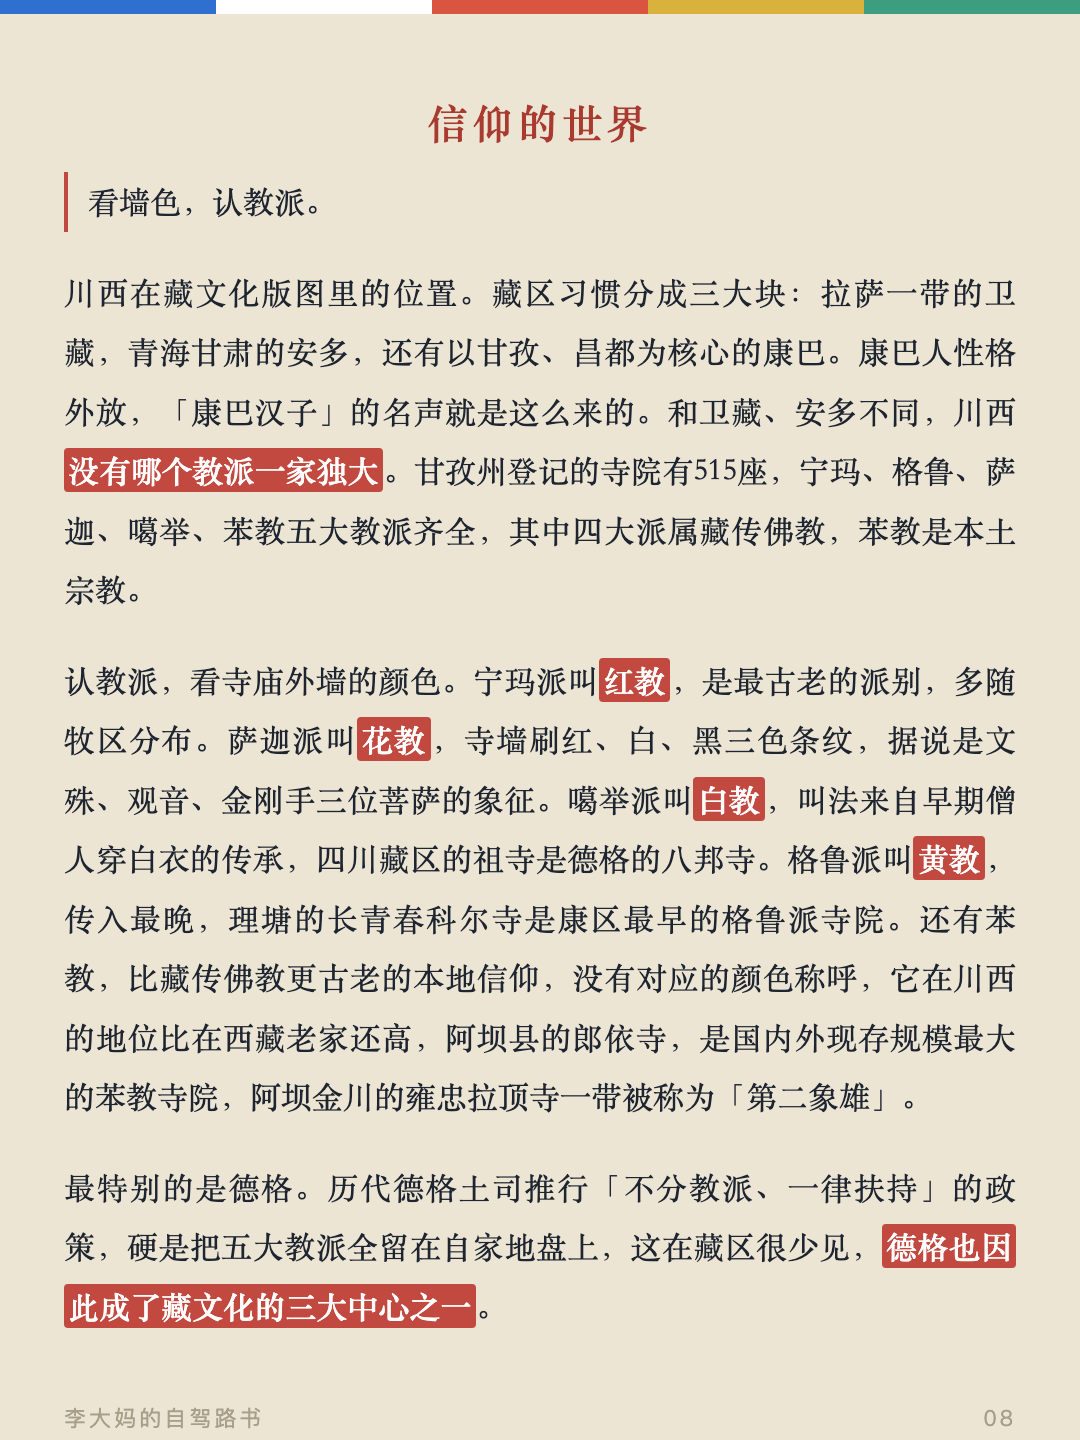
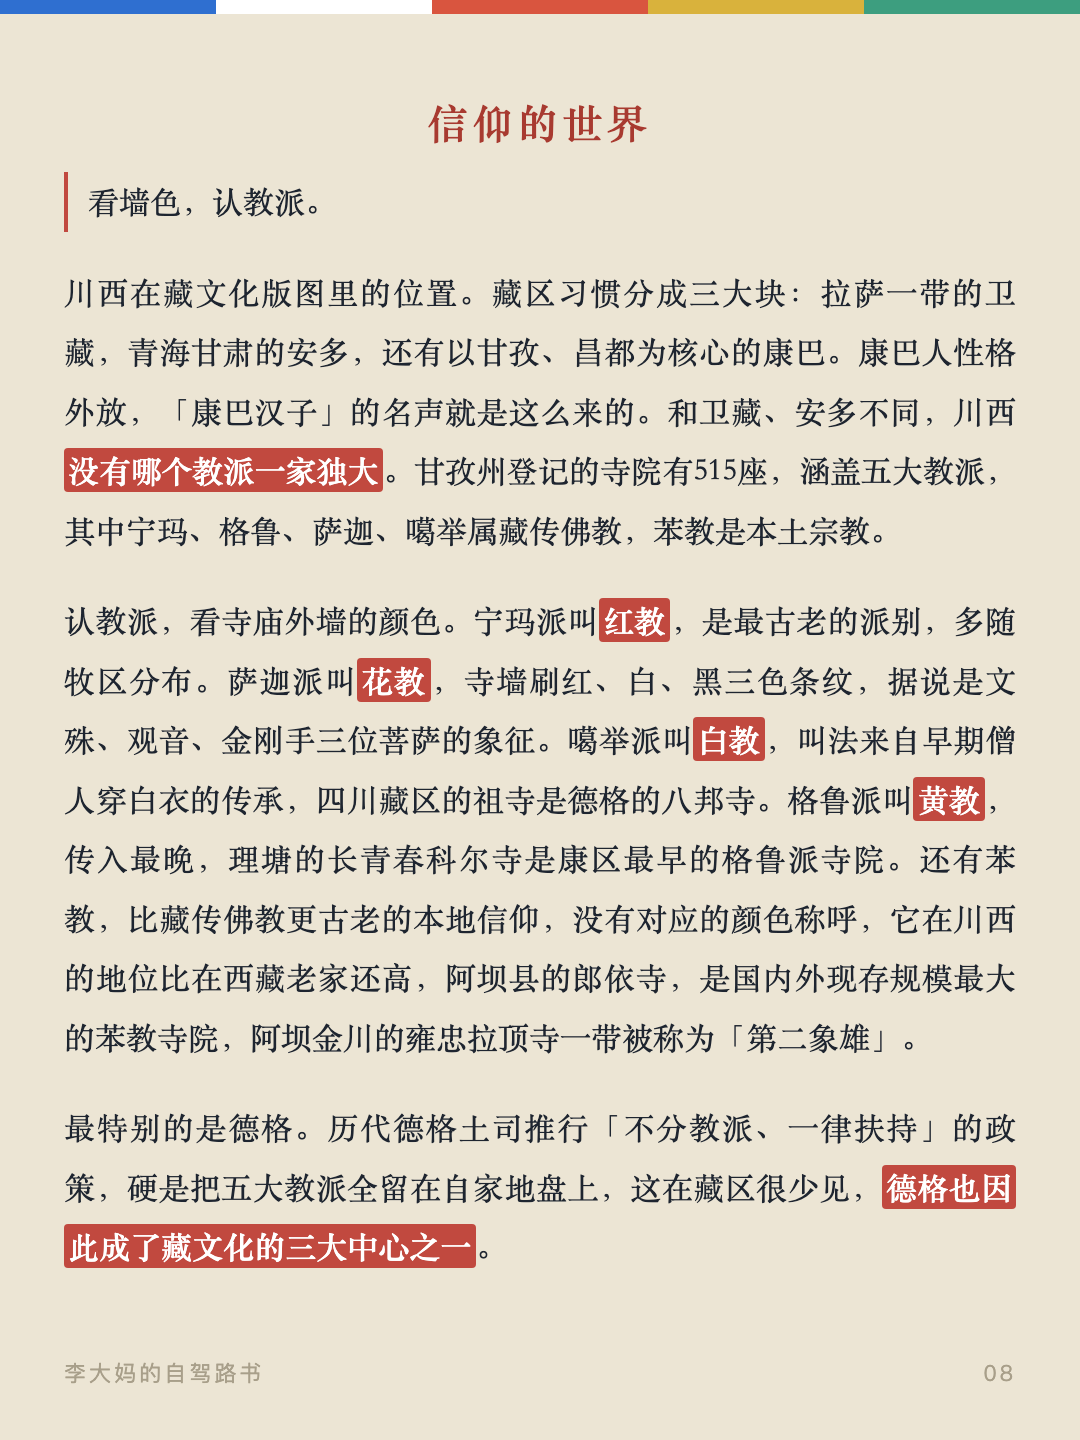
苯教段改为涵盖五大教派表述

Changed region(s): [[0.0611, 0.3125, 0.9472, 1.0], [0.9167, 0.9375, 0.9472, 1.0]]

diff --git a/cards.html b/cards.html
@@ -137,7 +137,7 @@
 
 <div class="card" id="card7"><div class="flag" aria-hidden="true"><span style="background:var(--flag-blue)"></span><span style="background:var(--flag-white)"></span><span style="background:var(--flag-red)"></span><span style="background:var(--flag-yellow)"></span><span style="background:var(--flag-green)"></span></div><div class="card__inner"><h3>充电</h3><p>川西这两年变化快。2025年6月甘孜州18个公路养护站和14个快充站投运，理塘到稻城段充电桩最大间距125公里；318沿线超300个充电桩，快充占七成以上。密度从东往西递减：成都到康定每30到50公里一个快充；康定、新都桥、雅江、理塘每80到150公里；理塘往稻城亚丁、新都桥往塔公八美每150到200公里。冷嘎措、格聂、若尔盖穿越段还是盲区。实际体验要打折：约一成五的桩故障或被燃油车占位，节假日热门站排队可能超一小时。高原续航缩水约三四成。<strong>电量低于三成就找桩</strong>，进景区前在县城充到八成以上。查桩用特来电、国网e充电、星星充电的App，或高德的新能源模式。</p><h3>封路信息</h3><p>两类封路最常见：汛期6到8月塌方落石，抢修期间半幅放行或管制；冬季11月到次年3、4月冬管，比如九绵高速夜间20点到次日8点禁行，夹金山段整个冬天双向禁行，理小路冬天全段禁行。<strong>G317马尔康到观音桥段，自2025年11月红旗特大桥垮塌后一直中断</strong>，绕行走壤塘、阿坝、红原方向，约多3小时；官方便道工程预计2026年9月底至10月初通车。官方渠道：阿坝州政府官网阿坝路况专栏、四川发布和成都发布公众号、高速救援12122、报警96122。<strong>官方路况和高德，出发当天交叉核对</strong>。</p><div class="card__foot"><span>李大妈的自驾路书</span><span>07</span></div></div></div>
 
-<div class="card" id="card8"><div class="flag" aria-hidden="true"><span style="background:var(--flag-blue)"></span><span style="background:var(--flag-white)"></span><span style="background:var(--flag-red)"></span><span style="background:var(--flag-yellow)"></span><span style="background:var(--flag-green)"></span></div><div class="card__inner"><h2>信仰的世界</h2><p class="card__lead">看墙色，认教派。</p><p>川西在藏文化版图里的位置。藏区习惯分成三大块：拉萨一带的卫藏，青海甘肃的安多，还有以甘孜、昌都为核心的康巴。康巴人性格外放，「康巴汉子」的名声就是这么来的。和卫藏、安多不同，川西<strong>没有哪个教派一家独大</strong>。甘孜州登记的寺院有515座，宁玛、格鲁、萨迦、噶举、苯教五大教派齐全，其中四大派属藏传佛教，苯教是本土宗教。</p><p>认教派，看寺庙外墙的颜色。宁玛派叫<strong>红教</strong>，是最古老的派别，多随牧区分布。萨迦派叫<strong>花教</strong>，寺墙刷红、白、黑三色条纹，据说是文殊、观音、金刚手三位菩萨的象征。噶举派叫<strong>白教</strong>，叫法来自早期僧人穿白衣的传承，四川藏区的祖寺是德格的八邦寺。格鲁派叫<strong>黄教</strong>，传入最晚，理塘的长青春科尔寺是康区最早的格鲁派寺院。还有苯教，比藏传佛教更古老的本地信仰，没有对应的颜色称呼，它在川西的地位比在西藏老家还高，阿坝县的郎依寺，是国内外现存规模最大的苯教寺院，阿坝金川的雍忠拉顶寺一带被称为「第二象雄」。</p><p>最特别的是德格。历代德格土司推行「不分教派、一律扶持」的政策，硬是把五大教派全留在自家地盘上，这在藏区很少见，<strong>德格也因此成了藏文化的三大中心之一</strong>。</p><div class="card__foot"><span>李大妈的自驾路书</span><span>08</span></div></div></div>
+<div class="card" id="card8"><div class="flag" aria-hidden="true"><span style="background:var(--flag-blue)"></span><span style="background:var(--flag-white)"></span><span style="background:var(--flag-red)"></span><span style="background:var(--flag-yellow)"></span><span style="background:var(--flag-green)"></span></div><div class="card__inner"><h2>信仰的世界</h2><p class="card__lead">看墙色，认教派。</p><p>川西在藏文化版图里的位置。藏区习惯分成三大块：拉萨一带的卫藏，青海甘肃的安多，还有以甘孜、昌都为核心的康巴。康巴人性格外放，「康巴汉子」的名声就是这么来的。和卫藏、安多不同，川西<strong>没有哪个教派一家独大</strong>。甘孜州登记的寺院有515座，涵盖五大教派，其中宁玛、格鲁、萨迦、噶举属藏传佛教，苯教是本土宗教。</p><p>认教派，看寺庙外墙的颜色。宁玛派叫<strong>红教</strong>，是最古老的派别，多随牧区分布。萨迦派叫<strong>花教</strong>，寺墙刷红、白、黑三色条纹，据说是文殊、观音、金刚手三位菩萨的象征。噶举派叫<strong>白教</strong>，叫法来自早期僧人穿白衣的传承，四川藏区的祖寺是德格的八邦寺。格鲁派叫<strong>黄教</strong>，传入最晚，理塘的长青春科尔寺是康区最早的格鲁派寺院。还有苯教，比藏传佛教更古老的本地信仰，没有对应的颜色称呼，它在川西的地位比在西藏老家还高，阿坝县的郎依寺，是国内外现存规模最大的苯教寺院，阿坝金川的雍忠拉顶寺一带被称为「第二象雄」。</p><p>最特别的是德格。历代德格土司推行「不分教派、一律扶持」的政策，硬是把五大教派全留在自家地盘上，这在藏区很少见，<strong>德格也因此成了藏文化的三大中心之一</strong>。</p><div class="card__foot"><span>李大妈的自驾路书</span><span>08</span></div></div></div>
 
 <div class="card" id="card9"><div class="flag" aria-hidden="true"><span style="background:var(--flag-blue)"></span><span style="background:var(--flag-white)"></span><span style="background:var(--flag-red)"></span><span style="background:var(--flag-yellow)"></span><span style="background:var(--flag-green)"></span></div><div class="card__inner"><p>路边的符号，各有含义。经幡也叫风马旗，五种颜色对应蓝天、白云、红火、江河、大地，挂在山顶风口，<strong>藏人相信风吹动一次等于诵经一次</strong>。玛尼堆是刻了六字真言的石块堆，路人经过会念着真言添一块石头，不搬走当纪念品。白塔源于古印度的覆钵式佛塔，路过捡块石头放上去，或献条哈达许愿。德格佐钦寺的白塔是尼泊尔风格，方形塔顶四面画着佛眼，<strong>和加德满都的博达哈大佛塔同一形制</strong>，博达哈是全世界最大的覆钵塔。转经筒里装着经文，转一圈等于念诵一遍，藏人转经廊、转佛塔、转寺院都是这个逻辑。六字真言「唵嘛呢叭咪吽」是观世音菩萨的总持咒，被看作雪域佛法最根本的念诵。</p><p>和信仰打交道，有几条规矩：<strong>绕行一律顺时针，只有苯教是逆时针</strong>。磕长头是身敬、语敬、意敬三者合一，额头叩地的瞬间，心里同时念咒、观想，这是他们能磕几千公里的原因。煨桑是烧香柏枝，敬献给神佛的香火，也是祈愿的仪式。献哈达要看对象：白色最普遍，黄色献给活佛和高僧，五彩哈达被视为菩萨的衣裳，只在隆重场合用。<strong>哈达只递到对方手里，不能挂脖子上，只有长辈给晚辈才往脖子上搭</strong>。天葬是藏人把遗体布施给神鹰，被认为是最高的舍身布施，<strong>全程严禁围观、拍照，当地有明文规定，连打听都不要</strong>。另有几条硬规矩：<strong>不摸别人的头，佛像、唐卡、经书不指</strong>，非要指就五指并拢、手心朝上，不进人家供奉的佛堂，不取献给塔上的供品，过门槛不踩。</p><div class="card__foot"><span>李大妈的自驾路书</span><span>09</span></div></div></div>
 

diff --git a/index.html b/index.html
@@ -262,7 +262,7 @@
     <section class="part" id="faith">
       <div class="part__head"><span class="part__no" aria-hidden="true">四</span><h2>信仰的世界</h2></div>
       <p class="part__lead">看墙色，认教派。</p>
-      <p>川西在藏文化版图里的位置。藏区习惯分成三大块：拉萨一带的卫藏，青海甘肃的安多，还有以甘孜、昌都为核心的康巴。康巴人性格外放，「康巴汉子」的名声就是这么来的。和卫藏、安多不同，川西<strong>没有哪个教派一家独大</strong>。甘孜州登记的寺院有515座，宁玛、格鲁、萨迦、噶举、苯教五大教派齐全，其中四大派属藏传佛教，苯教是本土宗教。</p>
+      <p>川西在藏文化版图里的位置。藏区习惯分成三大块：拉萨一带的卫藏，青海甘肃的安多，还有以甘孜、昌都为核心的康巴。康巴人性格外放，「康巴汉子」的名声就是这么来的。和卫藏、安多不同，川西<strong>没有哪个教派一家独大</strong>。甘孜州登记的寺院有515座，涵盖五大教派，其中宁玛、格鲁、萨迦、噶举属藏传佛教，苯教是本土宗教。</p>
       <p>认教派，看寺庙外墙的颜色。宁玛派叫<strong>红教</strong>，是最古老的派别，多随牧区分布。萨迦派叫<strong>花教</strong>，寺墙刷红、白、黑三色条纹，据说是文殊、观音、金刚手三位菩萨的象征。噶举派叫<strong>白教</strong>，叫法来自早期僧人穿白衣的传承，四川藏区的祖寺是德格的八邦寺。格鲁派叫<strong>黄教</strong>，传入最晚，理塘的长青春科尔寺是康区最早的格鲁派寺院。还有苯教，比藏传佛教更古老的本地信仰，没有对应的颜色称呼，它在川西的地位比在西藏老家还高，阿坝县的郎依寺，是国内外现存规模最大的苯教寺院，阿坝金川的雍忠拉顶寺一带被称为「第二象雄」。</p>
       <p>最特别的是德格。历代德格土司推行「不分教派、一律扶持」的政策，硬是把五大教派全留在自家地盘上，这在藏区很少见，<strong>德格也因此成了藏文化的三大中心之一</strong>。</p>
       <p>路边的符号，各有含义。经幡也叫风马旗，五种颜色对应蓝天、白云、红火、江河、大地，挂在山顶风口，<strong>藏人相信风吹动一次等于诵经一次</strong>。玛尼堆是刻了六字真言的石块堆，路人经过会念着真言添一块石头，不搬走当纪念品。白塔源于古印度的覆钵式佛塔，路过捡块石头放上去，或献条哈达许愿。德格佐钦寺的白塔是尼泊尔风格，方形塔顶四面画着佛眼，<strong>和加德满都的博达哈大佛塔同一形制</strong>，博达哈是全世界最大的覆钵塔。转经筒里装着经文，转一圈等于念诵一遍，藏人转经廊、转佛塔、转寺院都是这个逻辑。六字真言「唵嘛呢叭咪吽」是观世音菩萨的总持咒，被看作雪域佛法最根本的念诵。</p>

diff --git a/gen_cards.py b/gen_cards.py
@@ -60,7 +60,7 @@ BODY_STREAM = [
   ('p', '两类封路最常见：汛期6到8月塌方落石，抢修期间半幅放行或管制；冬季11月到次年3、4月冬管，比如九绵高速夜间20点到次日8点禁行，夹金山段整个冬天双向禁行，理小路冬天全段禁行。<strong>G317马尔康到观音桥段，自2025年11月红旗特大桥垮塌后一直中断</strong>，绕行走壤塘、阿坝、红原方向，约多3小时；官方便道工程预计2026年9月底至10月初通车。官方渠道：阿坝州政府官网阿坝路况专栏、四川发布和成都发布公众号、高速救援12122、报警96122。<strong>官方路况和高德，出发当天交叉核对</strong>。'),
   ('h2', '信仰的世界'),
   ('lead', '看墙色，认教派。'),
-  ('p', '川西在藏文化版图里的位置。藏区习惯分成三大块：拉萨一带的卫藏，青海甘肃的安多，还有以甘孜、昌都为核心的康巴。康巴人性格外放，「康巴汉子」的名声就是这么来的。和卫藏、安多不同，川西<strong>没有哪个教派一家独大</strong>。甘孜州登记的寺院有515座，宁玛、格鲁、萨迦、噶举、苯教五大教派齐全，其中四大派属藏传佛教，苯教是本土宗教。'),
+  ('p', '川西在藏文化版图里的位置。藏区习惯分成三大块：拉萨一带的卫藏，青海甘肃的安多，还有以甘孜、昌都为核心的康巴。康巴人性格外放，「康巴汉子」的名声就是这么来的。和卫藏、安多不同，川西<strong>没有哪个教派一家独大</strong>。甘孜州登记的寺院有515座，涵盖五大教派，其中宁玛、格鲁、萨迦、噶举属藏传佛教，苯教是本土宗教。'),
   ('p', '认教派，看寺庙外墙的颜色。宁玛派叫<strong>红教</strong>，是最古老的派别，多随牧区分布。萨迦派叫<strong>花教</strong>，寺墙刷红、白、黑三色条纹，据说是文殊、观音、金刚手三位菩萨的象征。噶举派叫<strong>白教</strong>，叫法来自早期僧人穿白衣的传承，四川藏区的祖寺是德格的八邦寺。格鲁派叫<strong>黄教</strong>，传入最晚，理塘的长青春科尔寺是康区最早的格鲁派寺院。还有苯教，比藏传佛教更古老的本地信仰，没有对应的颜色称呼，它在川西的地位比在西藏老家还高，阿坝县的郎依寺，是国内外现存规模最大的苯教寺院，阿坝金川的雍忠拉顶寺一带被称为「第二象雄」。'),
   ('p', '最特别的是德格。历代德格土司推行「不分教派、一律扶持」的政策，硬是把五大教派全留在自家地盘上，这在藏区很少见，<strong>德格也因此成了藏文化的三大中心之一</strong>。'),
   ('p', '路边的符号，各有含义。经幡也叫风马旗，五种颜色对应蓝天、白云、红火、江河、大地，挂在山顶风口，<strong>藏人相信风吹动一次等于诵经一次</strong>。玛尼堆是刻了六字真言的石块堆，路人经过会念着真言添一块石头，不搬走当纪念品。白塔源于古印度的覆钵式佛塔，路过捡块石头放上去，或献条哈达许愿。德格佐钦寺的白塔是尼泊尔风格，方形塔顶四面画着佛眼，<strong>和加德满都的博达哈大佛塔同一形制</strong>，博达哈是全世界最大的覆钵塔。转经筒里装着经文，转一圈等于念诵一遍，藏人转经廊、转佛塔、转寺院都是这个逻辑。六字真言「唵嘛呢叭咪吽」是观世音菩萨的总持咒，被看作雪域佛法最根本的念诵。'),
